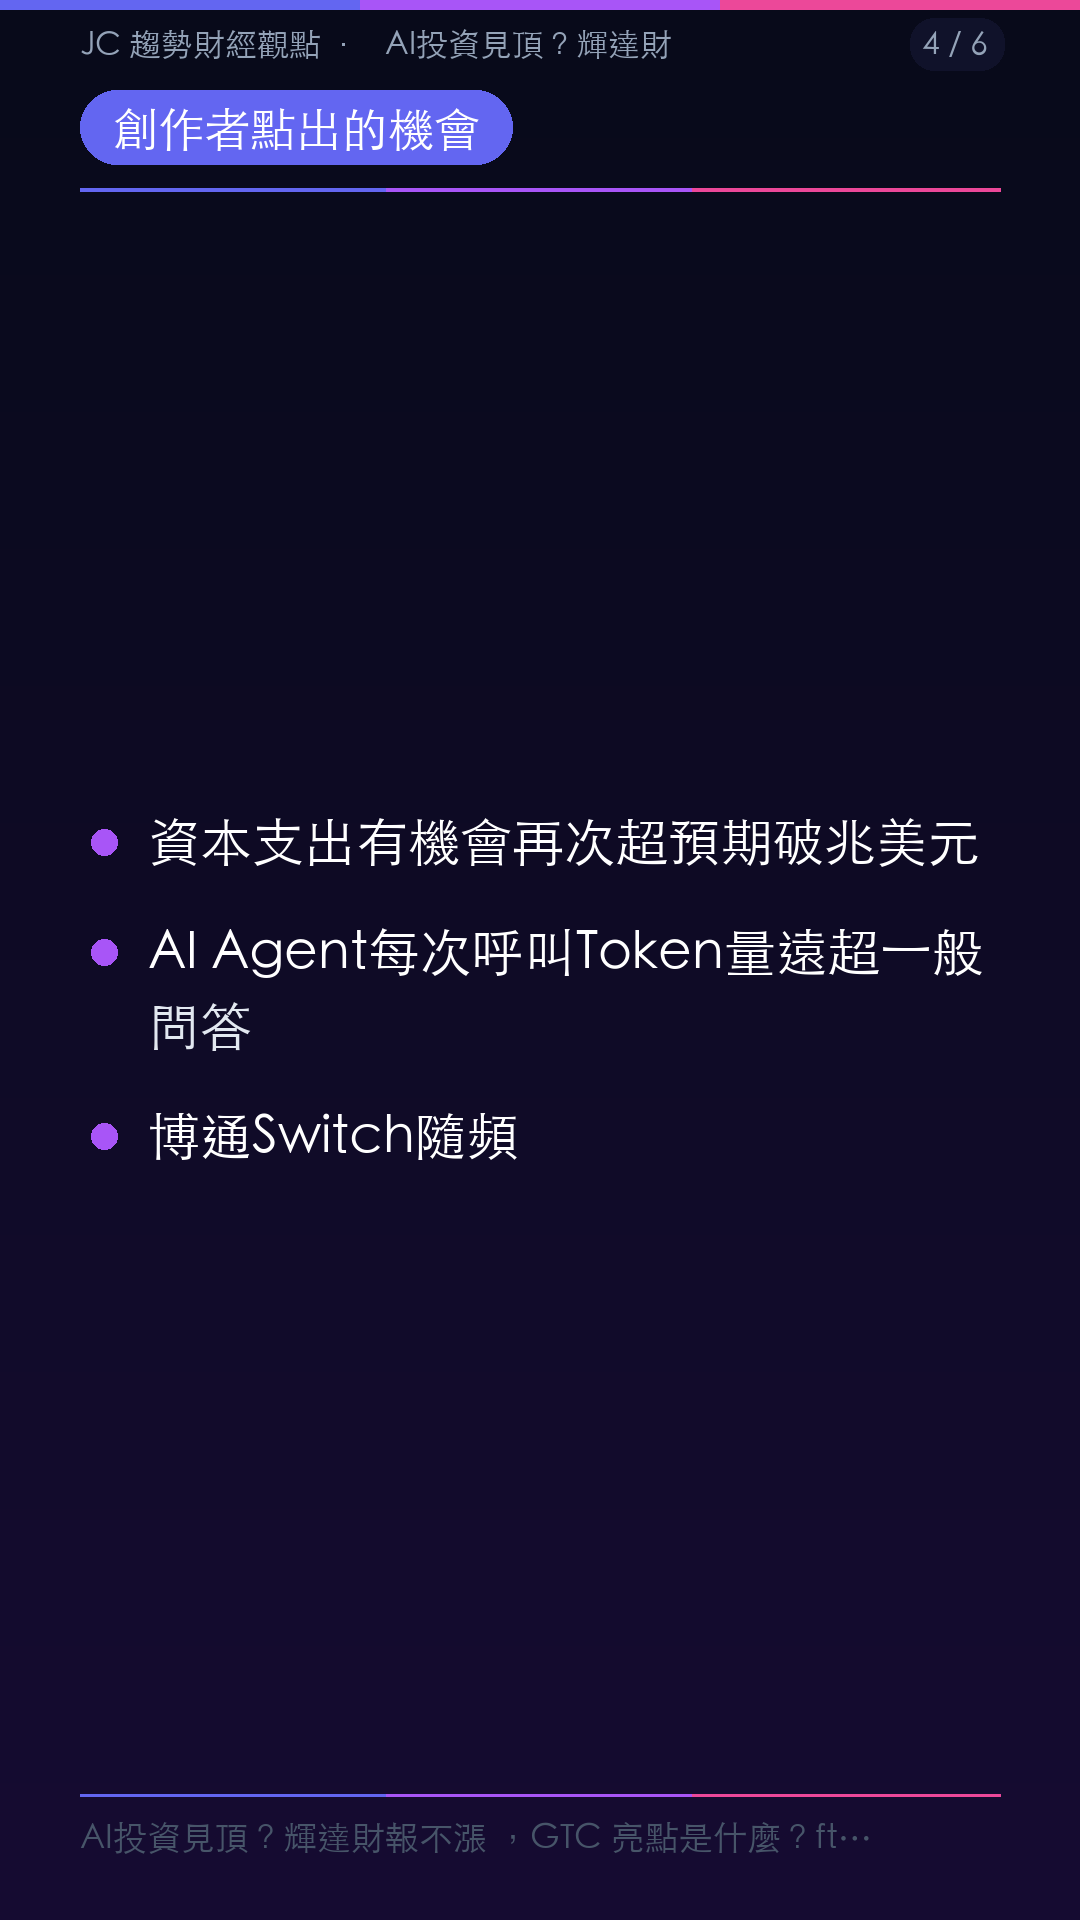
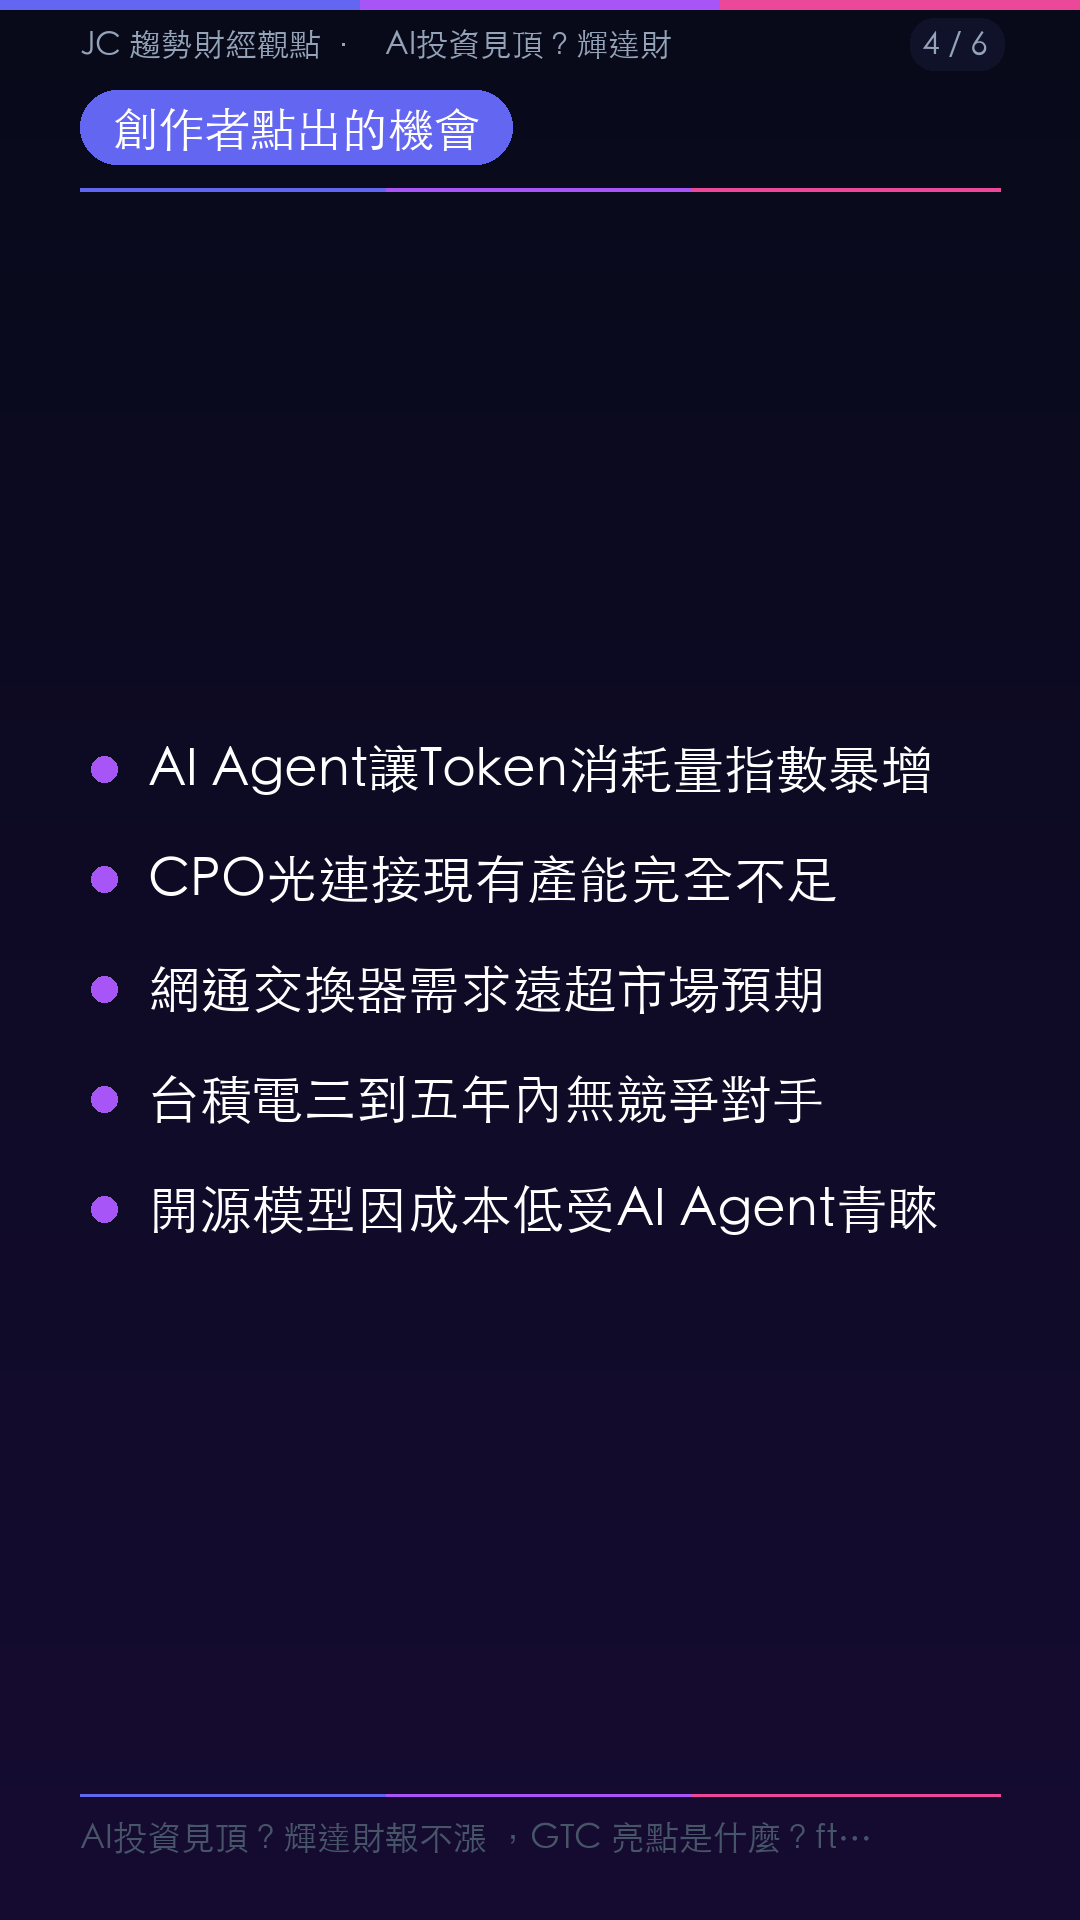
chore: deploy static site — 2026-03-16 20:54

diff --git a/docs/summaries/g7bA1Qs3GS4.md b/docs/summaries/g7bA1Qs3GS4.md
@@ -5,8 +5,7 @@ channel_id: UCdwPn2TO60Ec8QDIFRx50lQ
 channel_name: JC 趨勢財經觀點
 published: 2026-03-16T00:30:06+00:00
 processed: 2026-03-16
-hashtags: #輝達 #台積電 #AI算力 #半導體 #資本支出 #JC趨勢財經觀點
-industries: 半導體, AI, 科技
+hashtags: #NVIDIA #台積電 #AI算力 #CSP資本支出 #半導體投資 #JC趨勢財經觀點
 ---
 
 # AI投資見頂？輝達財報不漲 ，GTC 亮點是什麼？ft. 艦長 程正樺
@@ -17,15 +16,15 @@ industries: 半導體, AI, 科技
 
 
 
-- **創作者認為**，輝達（NVIDIA）本季財報數字亮眼，但股價反應平淡，原因在於市場對 2027 年資本支出能否持續成長抱有疑慮——CSP 今年資本支出成長 70% 達 7,000 億美元，但自由現金流普遍惡化，市場擔憂明年成長率將大幅下滑至約 15%。
+- **創作者（艦長）認為**，輝達（NVIDIA）本季財報數字雖好，但市場對2027年資本支出成長能否持續抱持疑慮，導致股價反應平淡。核心問題在於CSP（雲端服務供應商）今年資本支出已達7000億美元、年增70%，但自由現金流因此大幅惡化，市場擔心2027年能否繼續擴大投入。
 
-- **創作者認為**，輝達目前競爭對手有限，真正具威脅的只有 Google（TPU），但 Google 不對外開放；AMD 雖是 GPU 路線的競爭者，但主要訴求是低價搶市。其他 ASIC 方案（Meta、OpenAI 等）進度落後，輝達護城河仍深。
+- **創作者認為**，輝達在競爭面並無真正強勁的對手——ASIC自製晶片中唯一成功的是Google TPU，且基本上不對外開放；AMD雖是第二選擇，但走GPU路線、想以較低價格競爭，並非ASIC。因此輝達在AI訓練與推論市場仍具主導地位。
 
-- **創作者認為**，AI 應用從訓練轉向推論是不可逆趨勢，輝達正透過「分離式推論架構（Disaggregated Inference）」因應，GTC 大會預計將推出類似 LPU 的推論產品，但如何在高毛利（約 80%）與具競爭力定價之間取得平衡，是輝達面臨的核心挑戰。
+- **創作者認為**，台積電的核心競爭優勢只有一個：先進製程天下無敵。只要維持此優勢，就能持續漲價，因為客戶別無選擇。節目中提到，可預見的未來3到5年內不會有競爭者，唯一潛在風險是反托拉斯法律訴訟。
 
-- **創作者認為**，台積電的核心競爭優勢在於先進製程的獨家壟斷地位，可預見的 3 至 5 年內無競爭者，因此具備持續漲價能力；相較之下，先進封裝（CoWoS 等）並非當前最稀缺的瓶頸，先進製程產能才是。
+- **創作者認為**，博通（Broadcom）本季財報超預期的亮點，主要來自網通交換器（Switch，如Tomahawk系列）需求遠優於預期，而非TPU業務。但市場仍擔憂Google TPU訂單份額持續流失給台灣競爭對手。
 
-- **創作者認為**，科技股的投資邏輯應聚焦於「產品週期（Product Cycle）」，提前研究一年半後的產品規格與供應鏈受益者；財報屬落後指標，真正的漲幅往往在財報確認前已完成。散戶最大的問題不是不知道何時買，而是不知道何時停損賣出。
+- **創作者認為**，對一般投資人而言，「賣出」比「買進」更難。應設定停損紀律、參考技術分析作為輔助，避免套牢後不賣、錯失機會成本，或在回本時急於出場而錯過後續漲幅。
 
 
 
@@ -50,23 +49,29 @@ industries: 半導體, AI, 科技
 
 - AMD
 
-- Google / Alphabet
+- Google（Alphabet）
 
 - Microsoft
 
-- Amazon（AWS）
+- Amazon（AWS/AMOZ）
 
 - Meta
+
+- Oracle
 
 - OpenAI
 
 - Anthropic
 
-- 智譜（Zhipu）、MiniMax（兩家在香港上市的中國模型商）
+- Zipu（智譜）
 
-- Lumentum
+- MiniMax
 
-- Coherent
+- 騰訊
+
+- Lumentum（Lumentina）
+
+- Coherent（Kohirin）
 
 - 台達電
 
@@ -77,37 +82,51 @@ industries: 半導體, AI, 科技
 
 
 
-**技術 / 產品**
+**產品／技術概念**
 
 
 
-- Groq（LPU 技術，NVIDIA 已收購其技術）
+- CPO（光連接器共封裝）
 
-- CPX（NVIDIA 推論加速架構）
-
-- Blackwell / Vera Rubin / Rubin Ultra / Feynman（NVIDIA GPU 世代）
+- LPU（Groq收購技術）
 
 - TPU（Google）
 
-- Tomahawk Switch（博通網通交換器系列）
+- NVSwitch / Quantum CPU
 
-- CoWoS / CoW（先進封裝）
+- HBM、DDR、SRAM
 
-- HBM / DDR / SRAM（記憶體類型）
+- CoWoS（先進封裝）
 
-- CPO（共封裝光學）
+- Rubin / Vera Rubin（下一代GPU架構）
 
-- UA Link（開放互聯標準）
+- Blackwell（現行GPU）
 
-- OpenClaw「小龍蝦」（Agentic AI 應用，即 Claude/ChatGPT 類 AI Agent）
+- Hopper（前代GPU）
+
+- Cajun / Kyber（提及但有不確定性）
+
+- AI Agent（如Claude、小龍蝦/Cursor類工具）
 
 
 
-**產業 / 市場**
+**市場／產業**
 
 
 
-- 半導體、AI 伺服器、光通訊、記憶體（HBM/DDR）、PCB、電源供應、先進封裝
+- 記憶體（DRAM/HBM）
+
+- 光通訊
+
+- PCB（印刷電路板）
+
+- CCL（覆銅板）
+
+- 電源供應器
+
+- 軟體股（整體）
+
+- 香港上市AI模型股 (智譜、MiniMax)
 
 
 
@@ -118,24 +137,21 @@ industries: 半導體, AI, 科技
 ## 關鍵數據
 
 
-| 數據 | 說明 |
-| 7,000 億美元 | 2025 年 CSP 資本支出總額，YoY 成長約 70% |
-| ~8,000 億美元 | 市場共識預估 2026 年 CSP 資本支出，YoY 成長約 15% |
-| 9,000 億～1 兆美元 | 艦長個人樂觀情境下的 2026 年資本支出預估 |
-| 80%+ | 輝達毛利率水準 |
-| 30%～40% | 預估 2025～2028 年博通 TPU 訂單被台灣競爭者瓜分的市占比例 |
-| ~40% | 博通預估下一季 Switch 佔 AI 營收比重 |
-| 800G / 1.6T | 目前 Scale-Out 光模組頻寬規格（GB200 世代） |
-| 7.2T | Scale-Up 互聯頻寬需求（為 Scale-Out 的約 9 倍） |
-| 858mm² | 單顆晶片最大尺寸上限（IC 製程限制） |
-| N3 / N2 | 台積電先進製程節點，AI 需求預計明年起大量吃 N2 產能 |
-| 10～15 萬片 | 台積電每個製程世代原本規劃的月產能（wafer starts） |
-| 1～2 萬台 | Meta 預估 2027 年開始小量採用 CPO Switch 的規模 |
-| 幾十萬顆 | 若 NVIDIA Rubin Ultra 全面採用 CPO，單一世代需求量級 |
-| ~100% YoY | 節目錄製當下，2025 Q1 與 2024 Q4 相比的 Token 使用量成長估算 |
-| 400%+ | 節目中提及去年記憶體相關股票漲幅 |
-| 5 倍以上 | 台灣 AI 供應鏈代表性個股（緯穎、台達電、台光電等）本波漲幅 |
-| 2027 年 | Meta 預估開始小量採用 CPO Switch 的時間點 |
+| 數據 | 內容 |
+| CSP 2025年資本支出 | 約7000億美元，年增約70% |
+| CSP 2026年資本支出市場共識預估 | 約8000億美元，年增約15% |
+| 艦長個人樂觀情境 | 2026年或達9000億至1兆美元，再增約50% |
+| 博通 Switch 佔AI營收比重 | 原本10～20%，Q4預計升至30%，下一季達40% |
+| Google TPU 博通份額預估 | 2028年或流失近一半給台灣競爭者（目前約30～40%） |
+| 博通 Enfrapec 系統業務 | 約貢獻10億美元營收，其中約30%為轉手訂單（毛利較低） |
+| Token使用量成長 | 節目中提到今年Q1 vs 去年Q4，年增率接近100% |
+| GPU Scale Up頻寬 | GB200約7.2T（Scale Up）vs 800G（Scale Out），相差約9倍 |
+| NVLink速率升級 | 從800G提升至1.6T（Vera Rubin世代） |
+| 台積電先進製程規劃產能 | 每世代約10～15萬片，N3可能不足 |
+| 晶片單顆最大尺寸限制 | 858mm² |
+| Blackwell晶片數 | 4顆主晶片 |
+| 記憶體股票去年漲幅（舉例） | 約400%以上 |
+| NVIDIA毛利率 | 約80%（節目提及） |
 
 
 
@@ -146,17 +162,15 @@ industries: 半導體, AI, 科技
 
 
 
-- **CSP 資本支出超預期的可能性**：節目中提到，市場目前預估 2026 年成長 15%，但艦長個人樂觀認為算力需求持續擴張，有機會再次超預期達 9,000 億至 1 兆美元，屆時相關個股將有表現空間。
+- **AI Agent帶動Token用量爆增**：創作者認為，隨著AI Agent（如OpenClaw類工具）越來越普及，每次呼叫都需重新傳入系統指令，Token消耗量遠高於一般問答，可能帶動算力需求指數型成長，進而支撐CSP持續擴大資本支出。
 
-- **AI Agent／推論需求帶動 Token 用量爆增**：以「小龍蝦」（Agentic AI）為代表，每次呼叫需帶入大量系統 Token，使用量遠高於一般問答，若 Agent 普及將大幅推升算力需求。
+- **CPO光連接器長期機會**：CPO概念已談了七八年，但近期能見度顯著提高。創作者指出，若Scale Up架構普及，光連接頻寬需求將是現行光模塊的9倍，現有產能完全不足，相關廠商（如Lumentum、Coherent）具備長期機會。
 
-- **博通 Switch 業務（Tomahawk 系列）**：本季財報超預期的核心來自 Switch 需求，隨 Scale-Up 頻寬從 800G 升至 1.6T，Switch 用量自然倍增，艦長認為此趨勢可持續關注。
+- **網通交換器（Switch）需求超預期**：博通Tomahawk系列Switch需求因規格升級（800G → 1.6T）自然帶動用量翻倍，創作者認為這是博通本季最值得關注的亮點，未來Meta等CSP若正式採用，還有進一步成長空間。
 
-- **CPO（共封裝光學）供應鏈**：講了七、八年，目前能見度明顯提升；NVIDIA 投資 Lumentum、Coherent 等上游雷射廠，顯示產能布局已啟動，相關供應鏈值得留意。
+- **台積電先進製程持續漲價能力**：創作者認為台積電在3～5年內無競爭者，維持訂價權，適合作為長期持有標的。
 
-- **台積電先進製程（N3／N2）**：獨家壟斷、無可替代，可預見 3 至 5 年持續漲價，艦長將其定位為「穩定成長的核心持股」。
-
-- **中國開源模型商（香港上市）**：智譜、MiniMax 因受惠於 AI Agent 對低成本推論的需求，股價近期已有明顯表現。
+- **開源模型廠商（香港上市）**：創作者提到Zipu（智譜）與MiniMax股價近期表現強勢，因AI Agent使用開源模型成本較低，有助這類模型商業績成長。
 
 
 
@@ -168,17 +182,19 @@ industries: 半導體, AI, 科技
 
 
 
-- **2027 年資本支出成長率大幅下滑的疑慮**：若 CSP 自由現金流持續惡化，明年資本支出成長率可能從 70% 驟降至 15%，對輝達等 AI 基礎設施股形成壓力。
+- **CSP自由現金流惡化**：各大CSP（除Microsoft外）因資本支出暴增，自由現金流大幅下滑，市場擔憂2027年擴張能力受限，是輝達估值最大的不確定性。
 
-- **博通 TPU 市占被侵蝕**：Google TPU 訂單已有部分轉往台灣競爭者，預估 2028 年前競爭者市占可能接近一半，長期威脅博通 AI 晶片業務。
+- **博通 TPU 市占流失風險**：Google TPU訂單預計有30～40%（甚至未來接近一半）將轉移給台灣競爭者，長期影響博通AI業務成長動能。
 
-- **地緣政治風險（美伊衝突）**：節目錄製時美伊衝突尚未平息，艦長強調伊朗民族性與宗教特質使衝突難以快速收場；若持續至四、五月，可能引發天然氣短缺，甚至影響台灣電力供應，市場不確定性極高。
+- **地緣政治風險（美伊衝突）**：創作者認為市場低估伊朗的抵抗意志，若衝突延續至四五月以上，可能影響天然氣進口，台灣甚至面臨缺電風險，整體不確定性高，建議等待明確底部訊號再進場。
 
-- **產品週期縮短與研發風險**：輝達約每年更新一代，研究過早可能押錯世代；如 Feynman 等下一代產品傳出進度落後，「研究白費」的風險真實存在。
+- **技術路線不確定性**：創作者舉例Kyber晶片可能無法如期量產，以及CPO喊了多年才真正落地，提醒過早押注特定技術路線存在「白研究」風險。
 
-- **輝達毛利率承壓**：若為推論市場推出性價比更高的產品（CPX、LPU），定價過低將侵蝕 80% 以上的毛利率，影響獲利品質與估值。
+- **AI通膨現象**：AI相關零組件廠商因AI訂單利潤豐厚，開始對傳統消費電子客戶（如蘋果）強制漲價，導致消費性電子供應鏈成本壓力增加。
 
-- **AI 通膨效應衝擊消費性電子供應鏈**：零組件廠商因 AI 訂單利潤豐厚，不願接受消費性產品的低毛利訂單，對蘋果等消費性品牌的供應鏈造成成本壓力。
+- **軟體股面臨AI替代威脅**：創作者認為市場普遍擔憂AI Agent將取代大量傳統軟體功能，軟體股面臨商業模式轉型壓力，股價持續承壓。
+
+- **台積電唯一尾部風險**：反托拉斯法律訴訟，一旦美國發動，將對台積電估值造成衝擊。
 
 
 
@@ -190,16 +206,14 @@ industries: 半導體, AI, 科技
 
 
 
-- **追蹤 CSP 資本支出動態**：重點觀察 Google、Amazon、Meta 等 CSP 是否進一步上修 2026 年資本支出指引，作為 AI 基礎設施股行情的領先指標。
+- **觀察CSP資本支出的實際執行進度**：特別是2026年最終數字是否超越市場共識的8000億美元、接近9000億至1兆美元，是判斷AI硬體股能否再次上攻的關鍵指標。
 
-- **Token 使用量成長趨勢**：可參考 OpenRouter 等機構發布的 Token 使用量數據，確認算力需求是否維持指數型成長。
+- **追蹤Token使用量數據**：創作者建議關注如OpenRouter等機構公佈的Token使用量統計，確認算力需求是否維持指數型成長。
 
-- **GTC 大會發布內容**：重點關注輝達是否正式推出 LPU 相關推論產品，以及其定價策略與毛利指引。
+- **GTC大會（NVIDIA）發布內容**：重點關注LPU（推論加速單元）等推論相關新產品的定價策略與毛利影響，以及Vera Rubin世代供應鏈細節。
 
-- **地緣政治緩和訊號**：艦長建議等待明確底部訊號再進場，包括：伊朗進入停火談判、技術面出現爆量長下影線、或估值回落至具吸引力水準。
+- **等待地緣政治底部訊號再入場**：創作者建議觀察：（1）伊朗是否出現停火談判意願；（2）技術面出現爆量長下影線等強支撐訊號；（3）個股本益比跌至歷史低位（如舉例10倍本益比）。
 
-- **台積電先進製程擴產進度**：觀察 N3／N2 產能利用率是否維持在 90% 附近，作為台積電定價權與獲利能力的核心指標。
+- **研究產品週期（Product Cycle）而非等財報**：創作者強調財報是落後指標，建議投資人提前研究下一代產品規格（如Rubin Ultra）及其供應鏈受益者，在業績正式兌現前布局。
 
-- **Rubin Ultra CPO 供應鏈落地進展**：持續追蹤 NVIDIA 下一代產品的 CPO 導入時程，以及 Lumentum、Coherent 等雷射廠的產能擴充進度。
-
-- **停損紀律**：艦長建議散戶無論基本面或技術面，都應設定明確停損點，避免「套牢後關掉 App、一年後才回來看」的機會成本損失。
+- **關注Meta、AMD對CPO Switch正式採用的時間節點**：Meta預計2027年開始小量使用CPO Switch，若時程提前或規模超預期，將是博通及光通訊供應鏈的重要催化劑。
